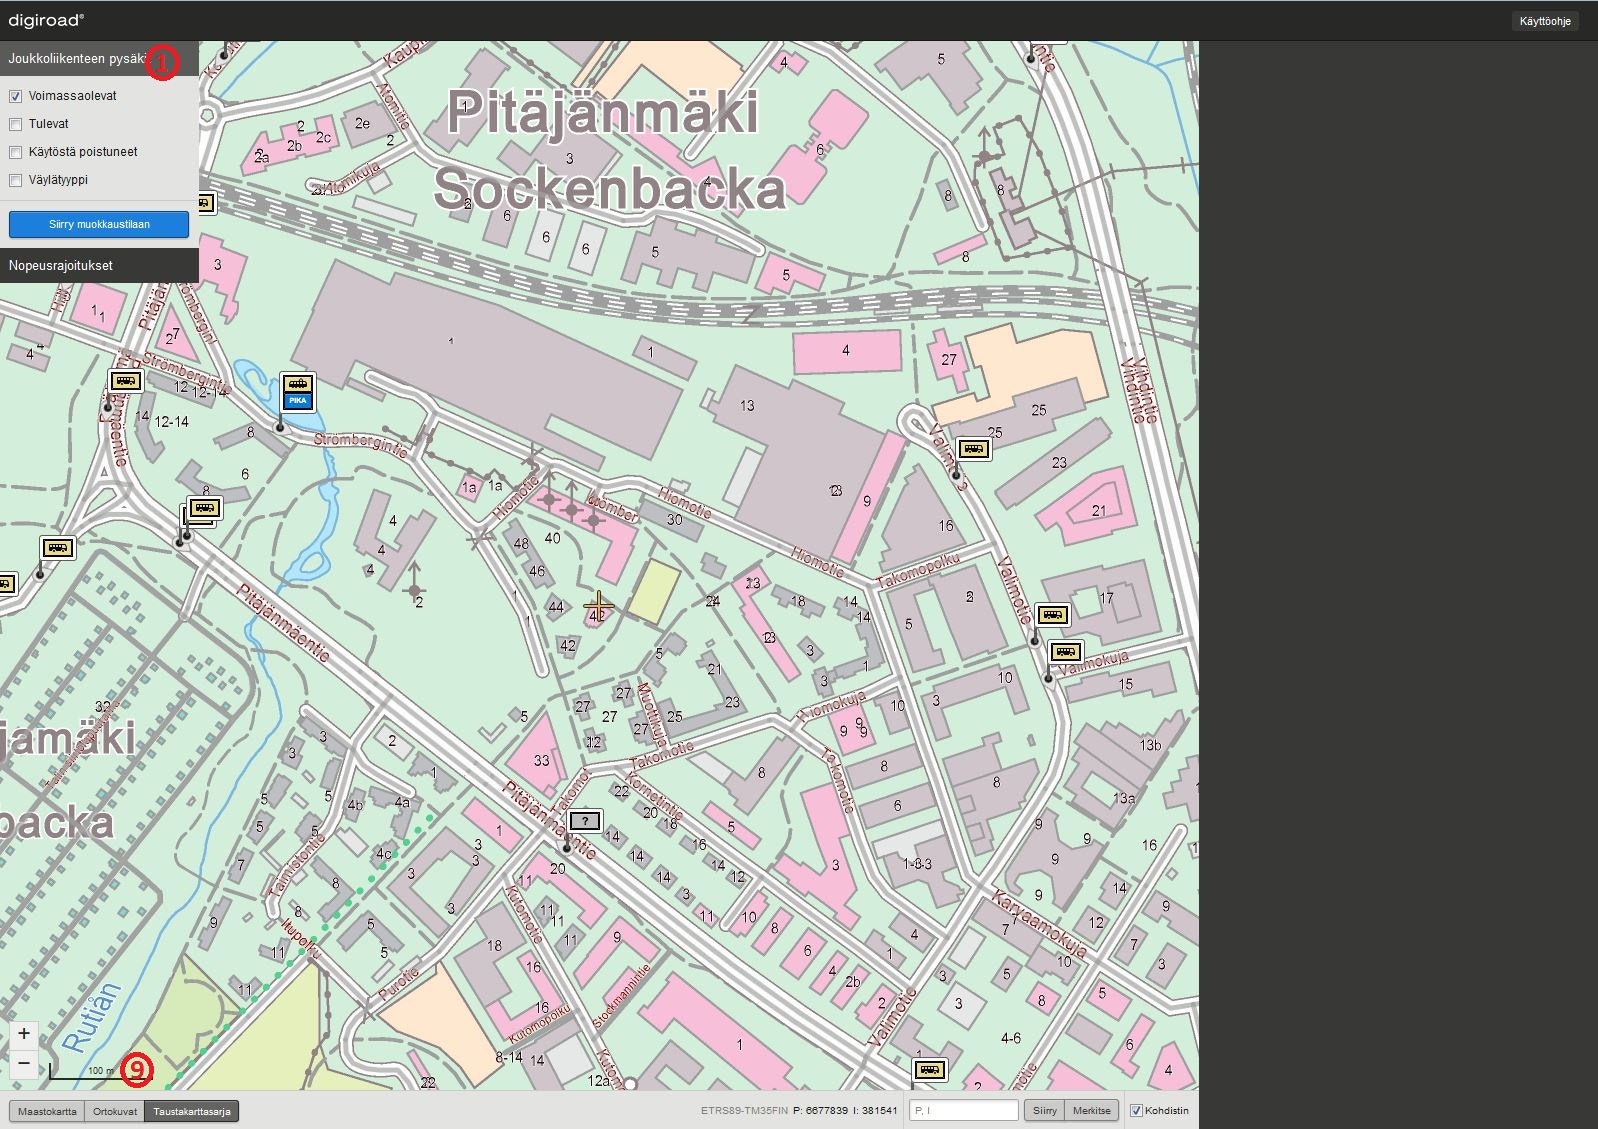
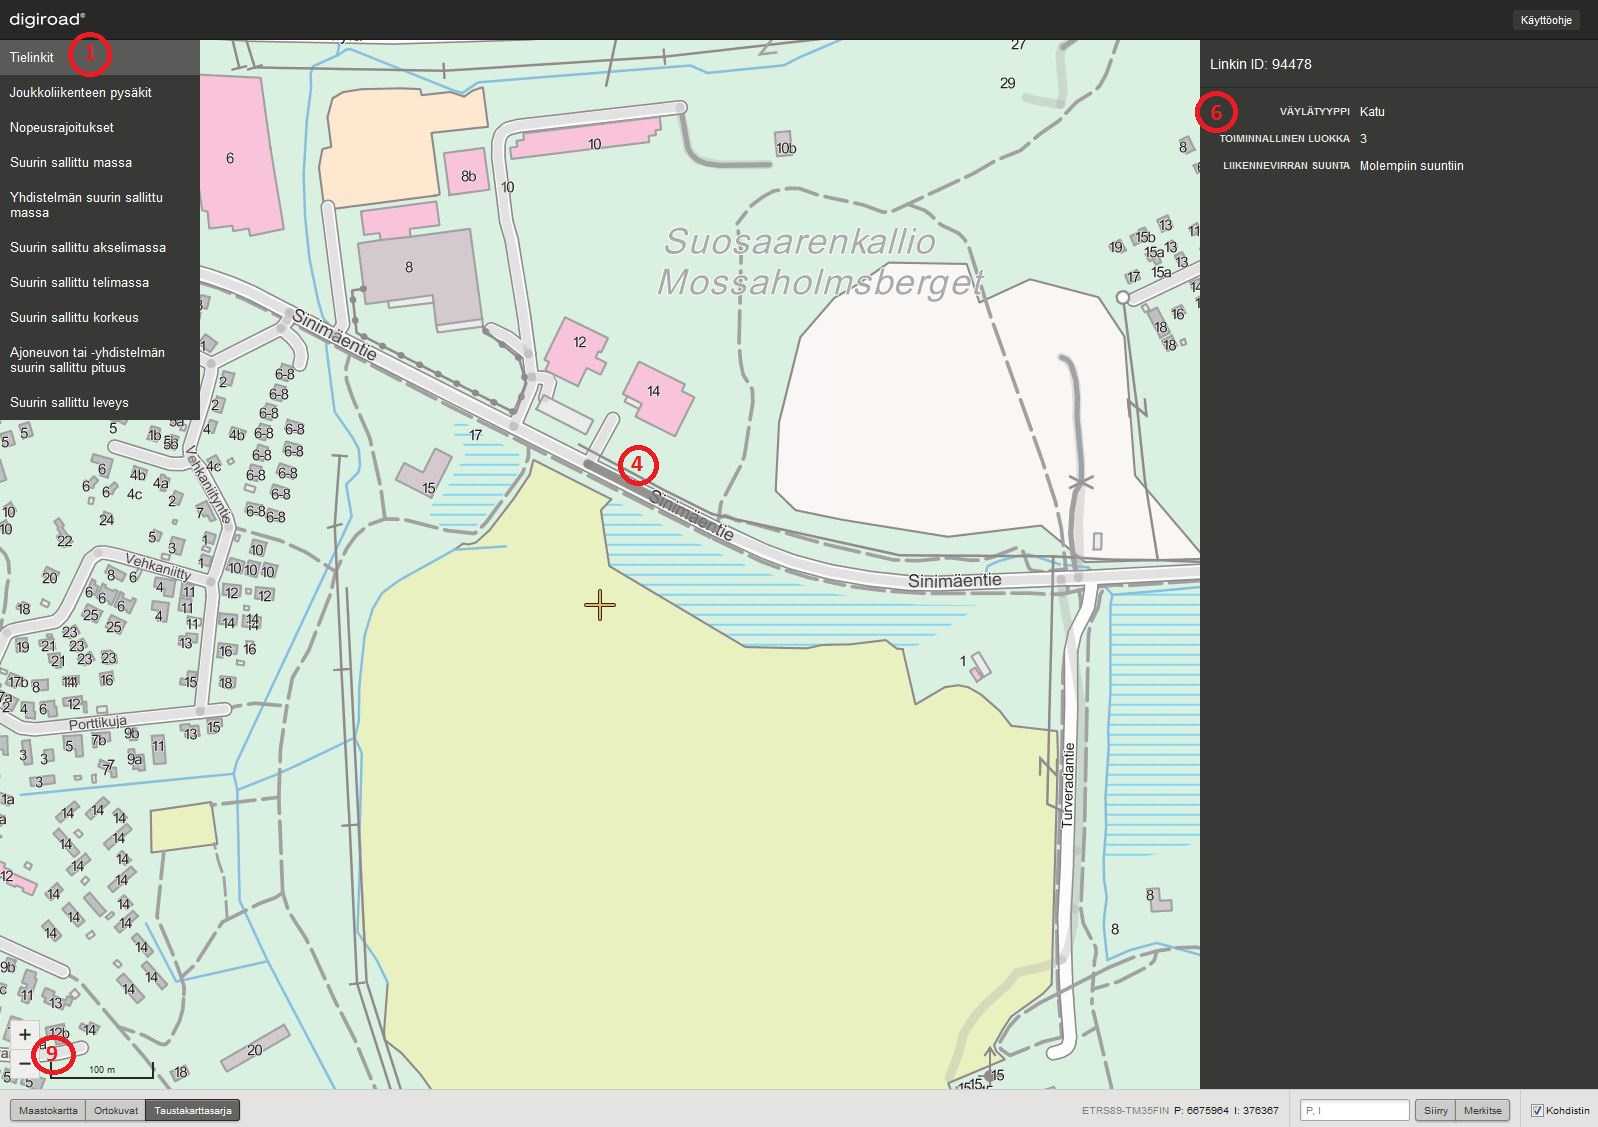
add road link to manual

diff --git a/UI/manual/index.md b/UI/manual/index.md
@@ -99,6 +99,8 @@ Sovelluksella on kaksi tilaa: katselu- ja muokkaustila. Jos k&auml;ytt&auml;j&au
 
 Muokkaustilan saa aktivoitua klikkaamalla "Siirry muokkaustilaan"-painiketta (3). Muokkaustilassa kartan yl&auml;osassa on teksti "Olet muokkaustilassa" (14). Muokkaustilassa tehdyt muutokset tallentuvat painamalla "Tallenna"-painiketta (15) ja peruuntuvat painamalla "Peruuta"-painiketta (16). Takaisin katselutilaan p&auml;&auml;see klikkaamalla "Siirry katselutilaan"-painiketta (11).
 
+Kaikki tietolajit n&auml;kyv&auml;t sek&auml; katselu- ett&auml; muokkaustilassa vain, kun kartan mittakaava on 1:20 000 tai tarkempi. Sovellus ilmoittaa, kun kartan mittakaava on liian ep&auml;tarkka tietolajin n&auml;kymiselle.
+
 ![Katselutila](k3.jpg)
 
 _Katselutila._
@@ -138,22 +140,22 @@ _Karttan&auml;kym&auml;n muokkaus._
 3.2 Tielinkit
 -------------
 
-Tielinkeill&auml; on oletuksena v&auml;rill&auml; korostettu v&auml;yl&auml;tyyppivalinta p&auml;&auml;ll&auml;. Valinnan saa pois klikkamalla tietolajit-valikon (1) "Joukkoliikenteen pys&auml;kit" kohdasta V&auml;yl&auml;tyyppi-valinnan pois. Sininen v&auml;ri tarkoittaa yksityistiet&auml;, vihre&auml; katua ja punainen maantiet&auml;. Harmaalla korostettujen tielinkkien v&auml;yl&auml;tyyppi ei ole tiedossa. 
+Karttan&auml;kym&auml;&auml;n voi valita tielinkit valitsemalla tietolajit-paletista (1) Tielinkit. 
 
-V&auml;yl&auml;tyyppi kertoo tielinkin omistajasta. Maantiet omistaa valtio. Kadut omistaa kunta, jonka alueella katu on. Yksityistiet omistaa yksityiset tahot: tiekunta, yksityishenkil&ouml;, yritys tms.
+![Tielinkit](k38.JPG)
 
-![V&auml;yl&auml;tyyppi](k22.JPG)
-
-_V&auml;yl&auml;tyypit._
+_Tielinkit._
 
 3.3 Joukkoliikenteen pys&auml;kkien valinta
 --------------------------------------
 
 Karttan&auml;kym&auml;&auml;n voi valita pys&auml;kkej&auml; valitsemalla tietolajit-paletista (1) Joukkoliikenteen pys&auml;kit. Pys&auml;kkej&auml; valitaan pys&auml;kin voimassaolon mukaan: voimassa olevat, tulevat ja/tai k&auml;yt&ouml;st&auml; poistuneet. Valitseminen toimii samalla tavalla sek&auml; katselu- ett&auml; muokkaustilassa.
 
-Joukkoliikenteen pys&auml;kit n&auml;kyv&auml;t vain tarpeeksi tarkalla mittakaavatasolla, joka on 1:20 000 tai tarkempi (9). Sovellus ilmoittaa, kun mittakaavataso on liian ep&auml;tarkka pys&auml;kkien n&auml;kymiselle. Mittakaavataso pys&auml;kkien n&auml;kymiselle on sama sek&auml; katselu- ett&auml; muokkaustilassa.
+Tielinkeill&auml; on pys&auml;kkin&auml;kym&auml;ss&auml; oletuksena v&auml;rill&auml; korostettu v&auml;yl&auml;tyyppivalinta p&auml;&auml;ll&auml;. Valinnan saa pois klikkamalla tietolajit-valikon (1) "Joukkoliikenteen pys&auml;kit" kohdasta V&auml;yl&auml;tyyppi-valinnan pois. Sininen v&auml;ri tarkoittaa yksityistiet&auml;, vihre&auml; katua ja punainen maantiet&auml;. Harmaalla korostettujen tielinkkien v&auml;yl&auml;tyyppi ei ole tiedossa. 
 
-![Pys&auml;kkien valinta](k7.jpg)
+V&auml;yl&auml;tyyppi kertoo tielinkin omistajasta. Maantiet omistaa valtio. Kadut omistaa kunta, jonka alueella katu on. Yksityistiet omistaa yksityiset tahot: tiekunta, yksityishenkil&ouml;, yritys tms.
+
+![V&auml;yl&auml;tyyppi](k22.JPG)
 
 _Joukkoliikenteen pys&auml;kkien valinta._
 
@@ -187,7 +189,7 @@ _Joukkoliikenteen pys&auml;kkien haku._
 3.4 Nopeusrajoitusten valinta
 -----------------------------
 
-Karttan&auml;kym&auml;&auml;n voi valita nopeusrajoitukset valitsemalla tietolajit-paletista (1) Nopeusrajoitukset. Nopeusrajoitukset n&auml;kyv&auml;t, kun kartan mittakaavataso on 1:20 000 tai tarkempi (9). Karttaa tarkennettaessa nopeusrajoitukset paksuuntuvat, jotta niiden erottaminen on helpompaa. Nopeusrajoituksilla on nopeusrajoitusl&auml;tk&auml;, joka kertoo nopeusrajoituksen arvon ja linkit on visualisoitu eri v&auml;rein nopeusrajoituksen arvon mukaan. V&auml;rikoodien selitteet n&auml;kyv&auml;t Nopeusrajoitukset-valinnan alla, kun valitsee Nopeusrajoitukset.
+Karttan&auml;kym&auml;&auml;n voi valita nopeusrajoitukset valitsemalla tietolajit-paletista (1) Nopeusrajoitukset. Karttaa tarkennettaessa nopeusrajoitukset paksuuntuvat, jotta niiden erottaminen on helpompaa. Nopeusrajoituksilla on nopeusrajoitusl&auml;tk&auml;, joka kertoo nopeusrajoituksen arvon ja linkit on visualisoitu eri v&auml;rein nopeusrajoituksen arvon mukaan. V&auml;rikoodien selitteet n&auml;kyv&auml;t Nopeusrajoitukset-valinnan alla, kun valitsee Nopeusrajoitukset.
 
 Jos tielinkill&auml; ei ole nopeusrajoitusta, sovellus generoi sen itse siten, ett&auml; katujen nopeusrajoitus on 50km/h ja maanteiden sek&auml; yksityisteiden 80km/h. Nopeusrajoitus tulee n&auml;kyviin, kun sovellus on generoinut sen.
 
@@ -198,7 +200,7 @@ _Nopeusrajoitusten valinta._
 3.5 Suurin sallittu -valinta
 ------------------------------------
 
-Kartalle voi valita tietolajit-paletista (1) Suurin sallittu -valinnan. Suurin sallittu -valinta n&auml;kyy, kun kartan mittakaavataso on 1:20 000 tai tarkempi (9). Karttaa tarkennettaessa geometriat paksuuntuvat, jotta niiden erottaminen on helpompaa. Geometriat on visualisoitu punaisella v&auml;rill&auml; ja tielinkit, joilla suurinta sallittua arvoa ei ole, on visualisoitu harmaalla v&auml;rill&auml;.
+Kartalle voi valita tietolajit-paletista (1) Suurin sallittu -valinnan. Karttaa tarkennettaessa geometriat paksuuntuvat, jotta niiden erottaminen on helpompaa. Geometriat on visualisoitu punaisella v&auml;rill&auml; ja tielinkit, joilla suurinta sallittua arvoa ei ole, on visualisoitu harmaalla v&auml;rill&auml;.
 
 Suurin sallittu -valintoja ovat:
 
@@ -219,10 +221,19 @@ _Suurin sallittu -valinta._
 
 Katselutila on sovelluksen tietolajien katselemista varten. Katselutilassa ei voi muokata tietolajeja.
 
-4.1 Pys&auml;kin tietojen katselu
+4.1 Tielinkin tietojen katselu
+------------------------------
+
+Yksitt&auml;isen tielinkin ominaisuustiedot tulevat n&auml;kyviin, kun tielinkin geometriaa kartalla klikataan (4). T&auml;ll&ouml;in tielinkin geometria korostuu kartalla ja sen ominaisuustiedot avautuvat ominaisuustieton&auml;kym&auml;&auml;n (6). Tielinkin ominaisuustietoja ovat tielinkin ID, v&auml;yl&auml;tyyppi, toiminnallinen luokka ja liikennevirran suunta.
+
+![Tielinkit](k7.jpg)
+
+_Tielinkit._
+
+4.2 Pys&auml;kin tietojen katselu
 ----------------------------
 
-Pys&auml;kit tulevat n&auml;kyviin, kun kartan mittakaavataso on 1:20 000 tai tarkempi (9). Yksitt&auml;isen pys&auml;kin ominaisuustiedot tulevat n&auml;kyviin, kun pys&auml;kki&auml; klikataan. T&auml;ll&ouml;in sivun oikeaan laitaan avautuu Google Street View (5) ja ominaisuustieto-n&auml;kym&auml; (6). Valitulle pys&auml;kille avautuu infokupla, jossa n&auml;kyy pys&auml;kin valtakunnallinen ID, suomenkielinen nimi, liikenn&ouml;intisuuntima ja pys&auml;kin tyyppi kuvana. (4)
+Yksitt&auml;isen pys&auml;kin ominaisuustiedot tulevat n&auml;kyviin, kun pys&auml;kki&auml; klikataan. T&auml;ll&ouml;in sivun oikeaan laitaan avautuu Google Street View (5) ja ominaisuustieto-n&auml;kym&auml; (6). Valitulle pys&auml;kille avautuu infokupla, jossa n&auml;kyy pys&auml;kin valtakunnallinen ID, suomenkielinen nimi, liikenn&ouml;intisuuntima ja pys&auml;kin tyyppi kuvana. (4)
 
 Jos kaksi tai useampi pys&auml;kki ovat alle kuuden metrin p&auml;&auml;ss&auml; toisistaan, esitet&auml;&auml;n pys&auml;kit k&auml;ytt&ouml;liittym&auml;ss&auml; p&auml;&auml;llekk&auml;in ryhmiteltyn&auml;. P&auml;&auml;llekk&auml;in asettelu mahdollistaa pys&auml;kin tarkastelun ilman, ett&auml; samassa sijainnissa olevia pys&auml;kkej&auml; tarvitsee siirt&auml;&auml;. 
 
@@ -232,10 +243,10 @@ Ominaisuustieto-n&auml;kym&auml;ss&auml; kaikki kent&auml;t ovat disabloituja el
 
 _Joukkoliikenteen pys&auml;kin tietojen katselu._
 
-4.2 Nopeusrajoituksen tietojen katselu
+4.3 Nopeusrajoituksen tietojen katselu
 --------------------------------------
 
-Nopeusrajoitukset tulevat n&auml;kyviin, kun kartan mittakaavataso on 1:20 000 tai tarkempi (9). Yksitt&auml;isen nopeusrajoituksen voi valita klikkaamalla kartalta sen geometriaa. T&auml;ll&ouml;in valituksi tulevat kaikki nopeusrajoitukset, joilla on sama ID. Nopeusrajoitusketjun geometria tummentuu ja muut nopeusrajoitukset n&auml;kyv&auml;t haaleammalla. Sivun oikeaan laitaan avautuu nopeusrajoituksen ominaisuustieton&auml;kym&auml;.
+Yksitt&auml;isen nopeusrajoituksen voi valita klikkaamalla kartalta sen geometriaa. T&auml;ll&ouml;in valituksi tulevat kaikki nopeusrajoitukset, joilla on sama ID. Nopeusrajoitusketjun geometria tummentuu ja muut nopeusrajoitukset n&auml;kyv&auml;t haaleammalla. Sivun oikeaan laitaan avautuu nopeusrajoituksen ominaisuustieton&auml;kym&auml;.
 
 Ominaisuustieton&auml;kym&auml;ss&auml; on nopeusrajoituksen ID ja arvo (km/h).
 
@@ -249,10 +260,10 @@ Nopeusrajoitukset on visualisoitu eri tavoin riippuen vaikutussuunnasta. Nopeusr
 
 _Nopeusrajoitusten visualisointi._
 
-4.3 Suurin sallittu -valinnan tietojen katselu
+4.4 Suurin sallittu -valinnan tietojen katselu
 ---------------------------------------------
 
-Suurin sallittu -valinta tulee n&auml;kyviin, kun kartan mittakaavataso on 1:20 000 tai tarkempi (9). Yksitt&auml;isen suurin sallittu -kohteen voi valita klikkaamalla kartalta sen geometriaa (4). Geometria tummentuu ja muut geometriat n&auml;kyv&auml;t haaleammalla. Sivun oikeaan laitaan avautuu valitun kohteen ominaisuustieton&auml;kym&auml;.
+Yksitt&auml;isen suurin sallittu -kohteen voi valita klikkaamalla kartalta sen geometriaa (4). Geometria tummentuu ja muut geometriat n&auml;kyv&auml;t haaleammalla. Sivun oikeaan laitaan avautuu valitun kohteen ominaisuustieton&auml;kym&auml;.
 
 ![Suurimman sallitun tietojen katselu](k31.JPG)
 
